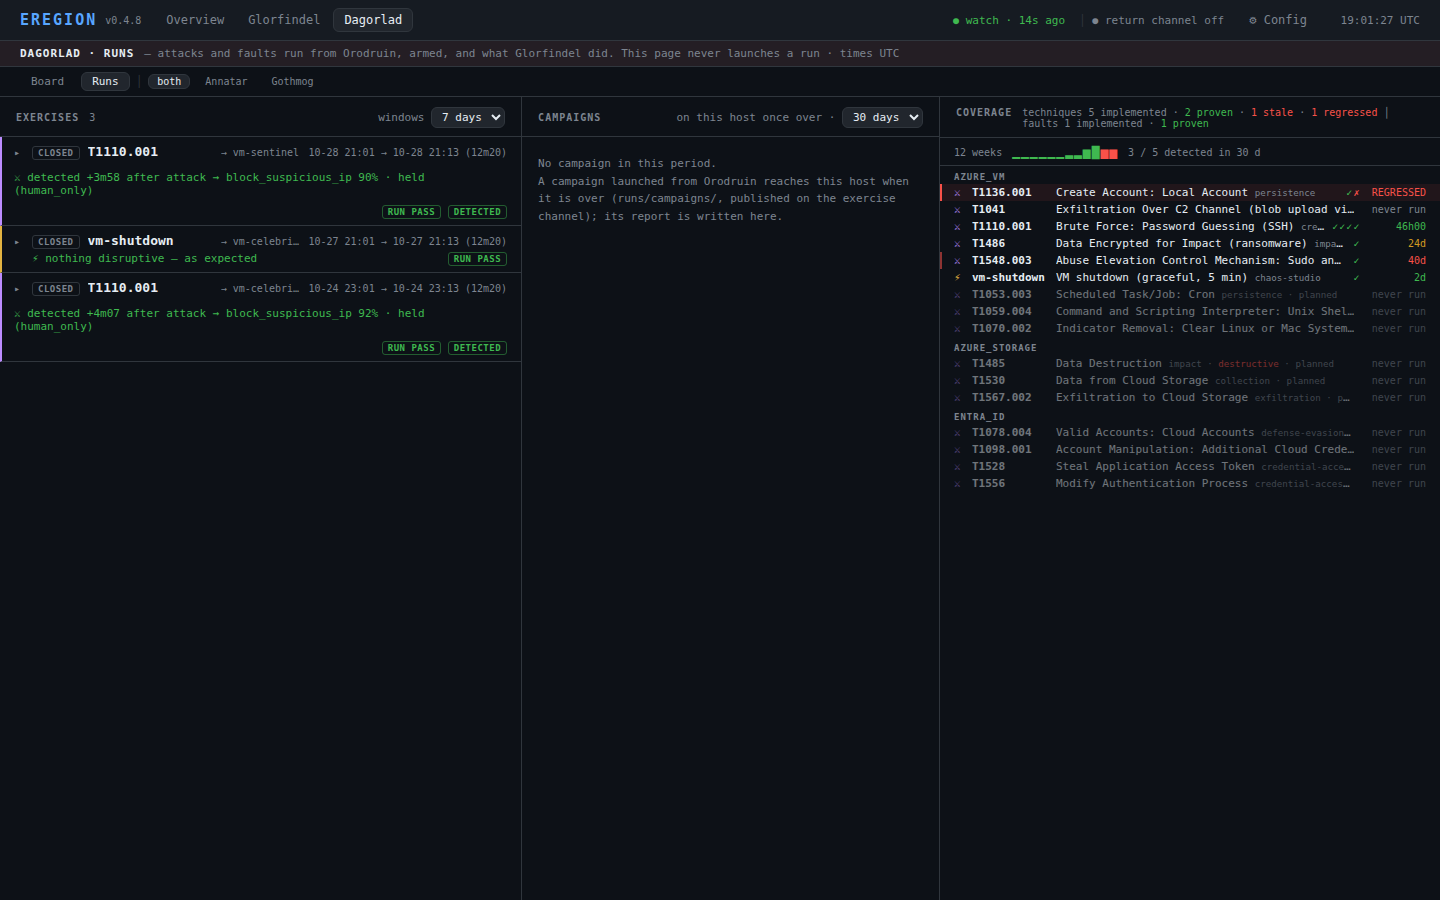
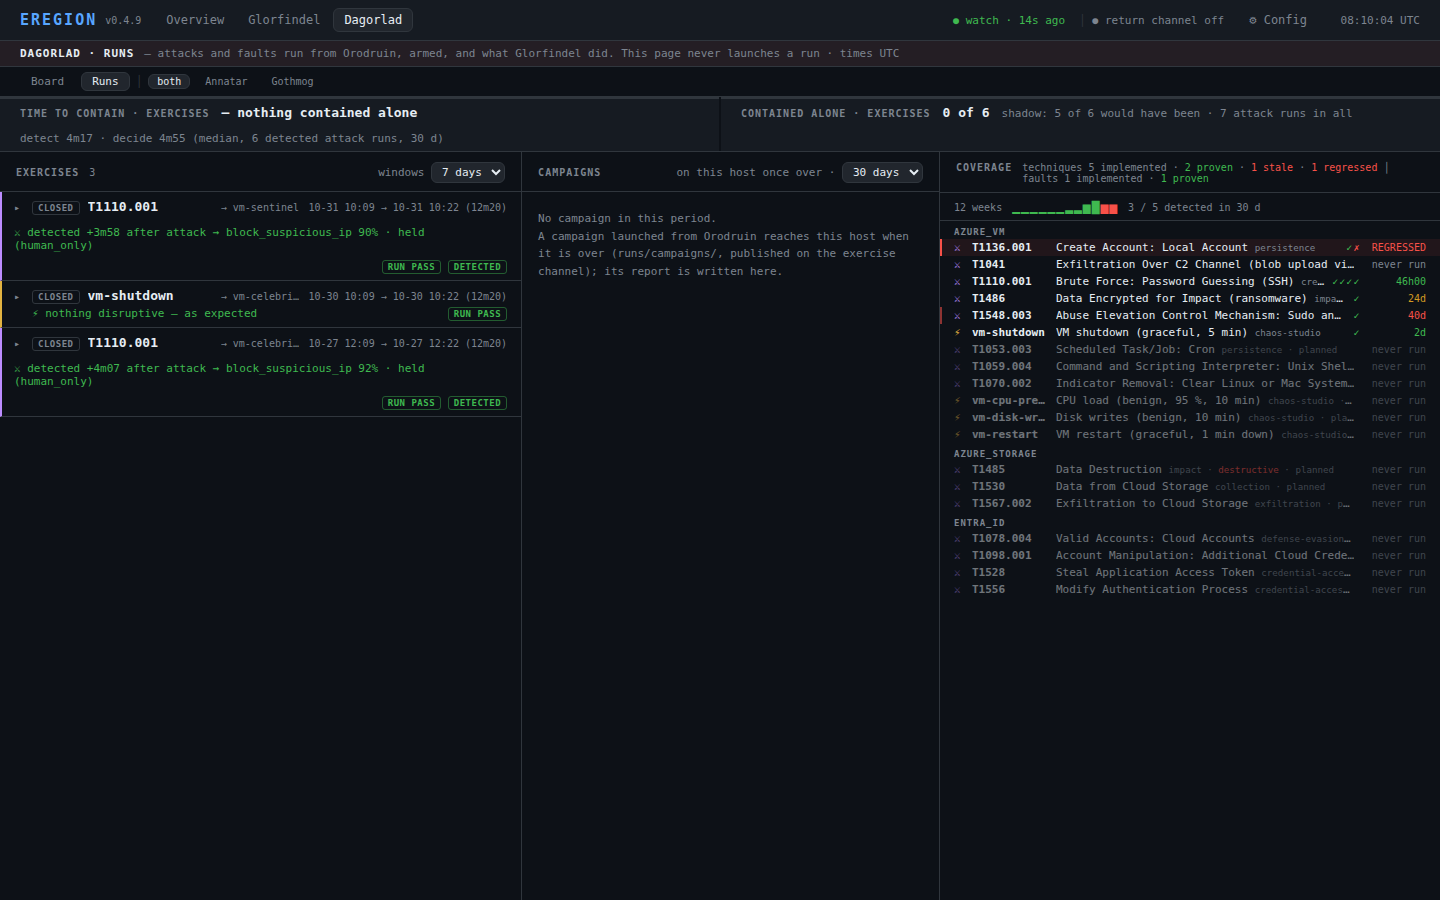
docs(console): la vue Runs de Dagorlad rejouée avec la bande des exercices (OV1, #399)
runs.png rendue sur le jeu d'exemple (scripts/console_shots.py, 0 erreur de page) ; seule son
empreinte change dans shots.json — board.png et loop.webp ne changent pas de contenu.

Changed region(s): [[0.0, 0.0933, 1.0, 0.6533], [0.25, 0.4356, 0.3438, 0.4667], [0.9375, 0.0, 0.9688, 0.0311]]

diff --git a/docs/dagorlad.md b/docs/dagorlad.md
@@ -42,7 +42,7 @@ Glorfindel voit », plus bas).
   Un filtre (`?injector=annatar|gothmog`) en garde un. `/annatar`, `/gothmog` et `/runs/<id>` y
   mènent.
 
-![La vue Runs sur le jeu d'exemple : les fenêtres d'exercice, et la matrice de couverture avec une technique en régression](images/dagorlad/runs.png)
+![La vue Runs sur le jeu d'exemple : en tête, le temps pour contenir et la part contenue seule des exercices ; les fenêtres d'exercice, et la matrice de couverture avec une technique en régression](images/dagorlad/runs.png)
 
 ## Tirer un fil, lire son verdict
 
